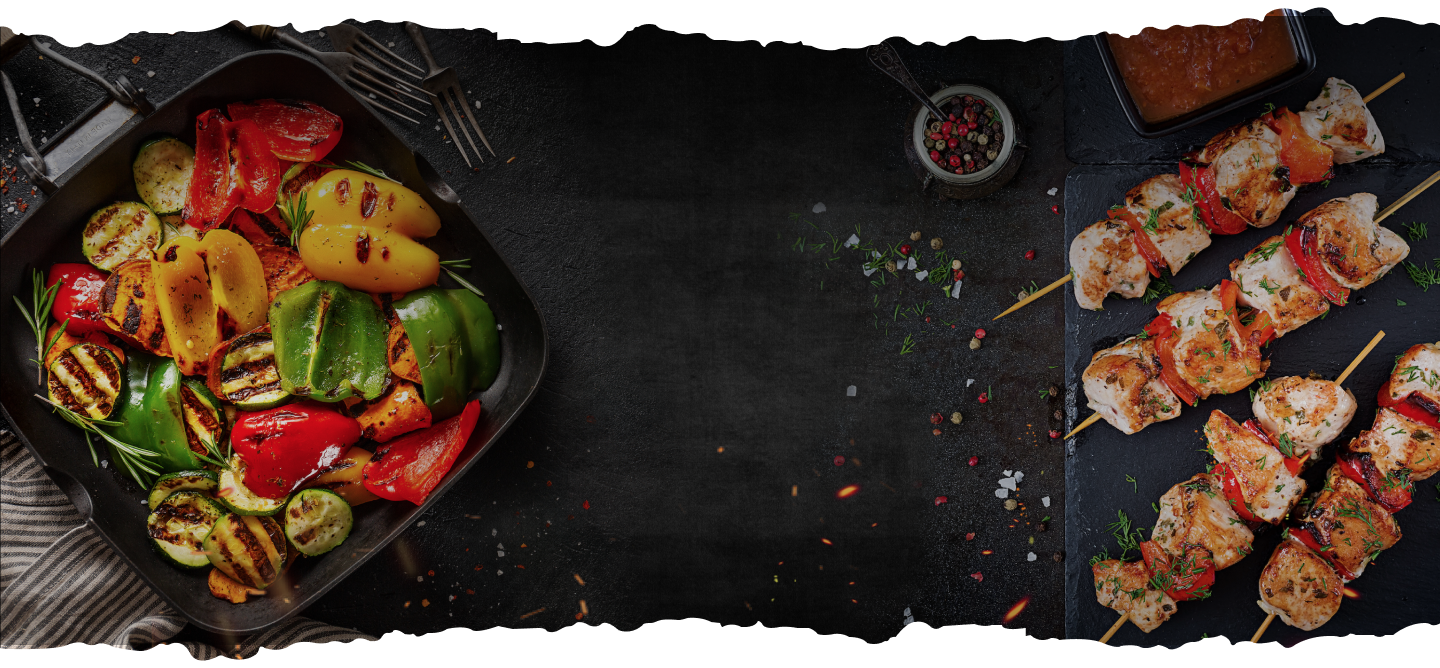
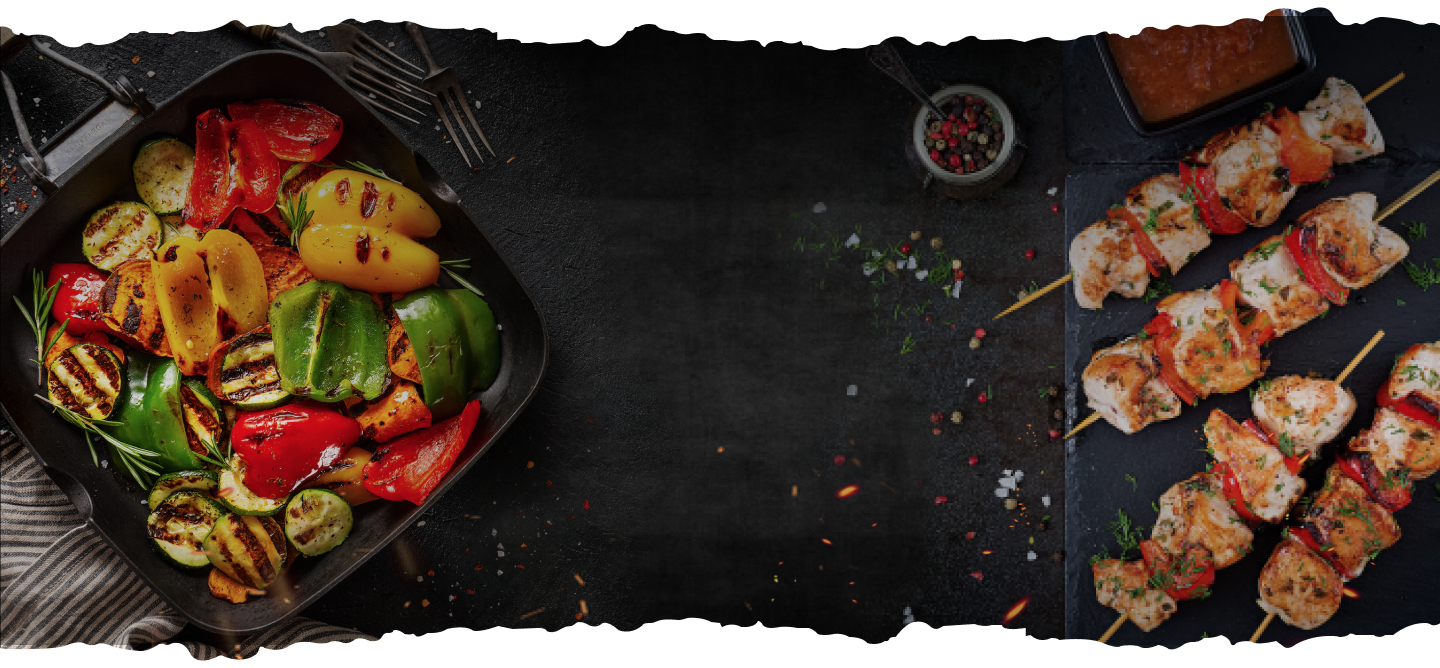
- home page (squeletton)

diff --git a/index.html b/index.html
@@ -221,7 +221,7 @@
       </section>
 
       <img
-        src="_assets/images/home/food-bg2.png"
+        src="_assets/images/home/food-bg3.png"
         alt=""
         class="width-100 d-block my-5"
       />
@@ -751,6 +751,76 @@
             </div>
           </div>
         </div>
+      </div>
+
+      <div class="container">
+        <div class="row pt-5 pb-3">
+          <div class="col">
+            <img src="_assets/images/logo.svg" class="img-fluid" alt="" />
+          </div>
+          <div class="col">
+            <span class="d-block">Menu</span>
+            <a href="#" class="d-block">Home</a>
+            <a href="#" class="d-block">About</a>
+            <a href="#" class="d-block">Menu</a>
+            <a href="#" class="d-block">Gallery</a>
+            <a href="#" class="d-block">Contact</a>
+          </div>
+          <div class="col">
+            <span class="d-block">Open hours</span>
+            <p>
+              Monday - Friday:<br />
+              4:00 pm - 1:00 am
+            </p>
+            <p>
+              Saturday:<br />
+              4:00 pm - 3:00 am
+            </p>
+            <p>
+              Sunday:<br />
+              4:00 pm - 2:00 am
+            </p>
+          </div>
+          <div class="col">
+            <span class="d-block">Open hours</span>
+            <p>+34 594 399 222</p>
+            <p>info@oliverspubandkitchen.com</p>
+            <p>
+              <a href="#"
+                ><img src="_assets/images/icon-fb.png" alt="" class="img-fluid"
+              /></a>
+              &nbsp;&nbsp;
+              <a href="#"
+                ><img
+                  src="_assets/images/icon-twitter.png"
+                  alt=""
+                  class="img-fluid"
+              /></a>
+              &nbsp;&nbsp;
+              <a href="#"
+                ><img
+                  src="_assets/images/icon-instagram.png"
+                  alt=""
+                  class="img-fluid"
+              /></a>
+              &nbsp;&nbsp;
+              <a href="#"
+                ><img
+                  src="_assets/images/icon-linkedIn.png"
+                  alt=""
+                  class="img-fluid"
+              /></a>
+            </p>
+          </div>
+          <div class="col">
+            <a href="#" class="btn">Book a Table</a>
+          </div>
+          <div class="col">
+            <a href="#" class="btn">Order Delivery</a>
+          </div>
+        </div>
+        <hr />
+        <p class="text-center text-uppercase mt-4">© OLIVER’S PUB & KITCHEN</p>
       </div>
     </footer>
 

diff --git a/_assets/css/site.css b/_assets/css/site.css
@@ -111,8 +111,8 @@ body > main {
 
 /** gallery  **/
 #gallery {
-  padding: 80px 0px 20px;
-  background-image: url("../images/home/main-bg-2-2.png");
+  padding: 80px 0px 10px;
+  background-image: url("../images/home/main-bg2.png");
   background-repeat: no-repeat;
   background-size: cover;
 }
@@ -120,7 +120,7 @@ body > main {
 /** footer **/
 footer {
   background-color: #000;
-  padding: 0px 0px 30px;
+  padding: 0px 0px 10px;
 }
 
 footer #footer-bg {
